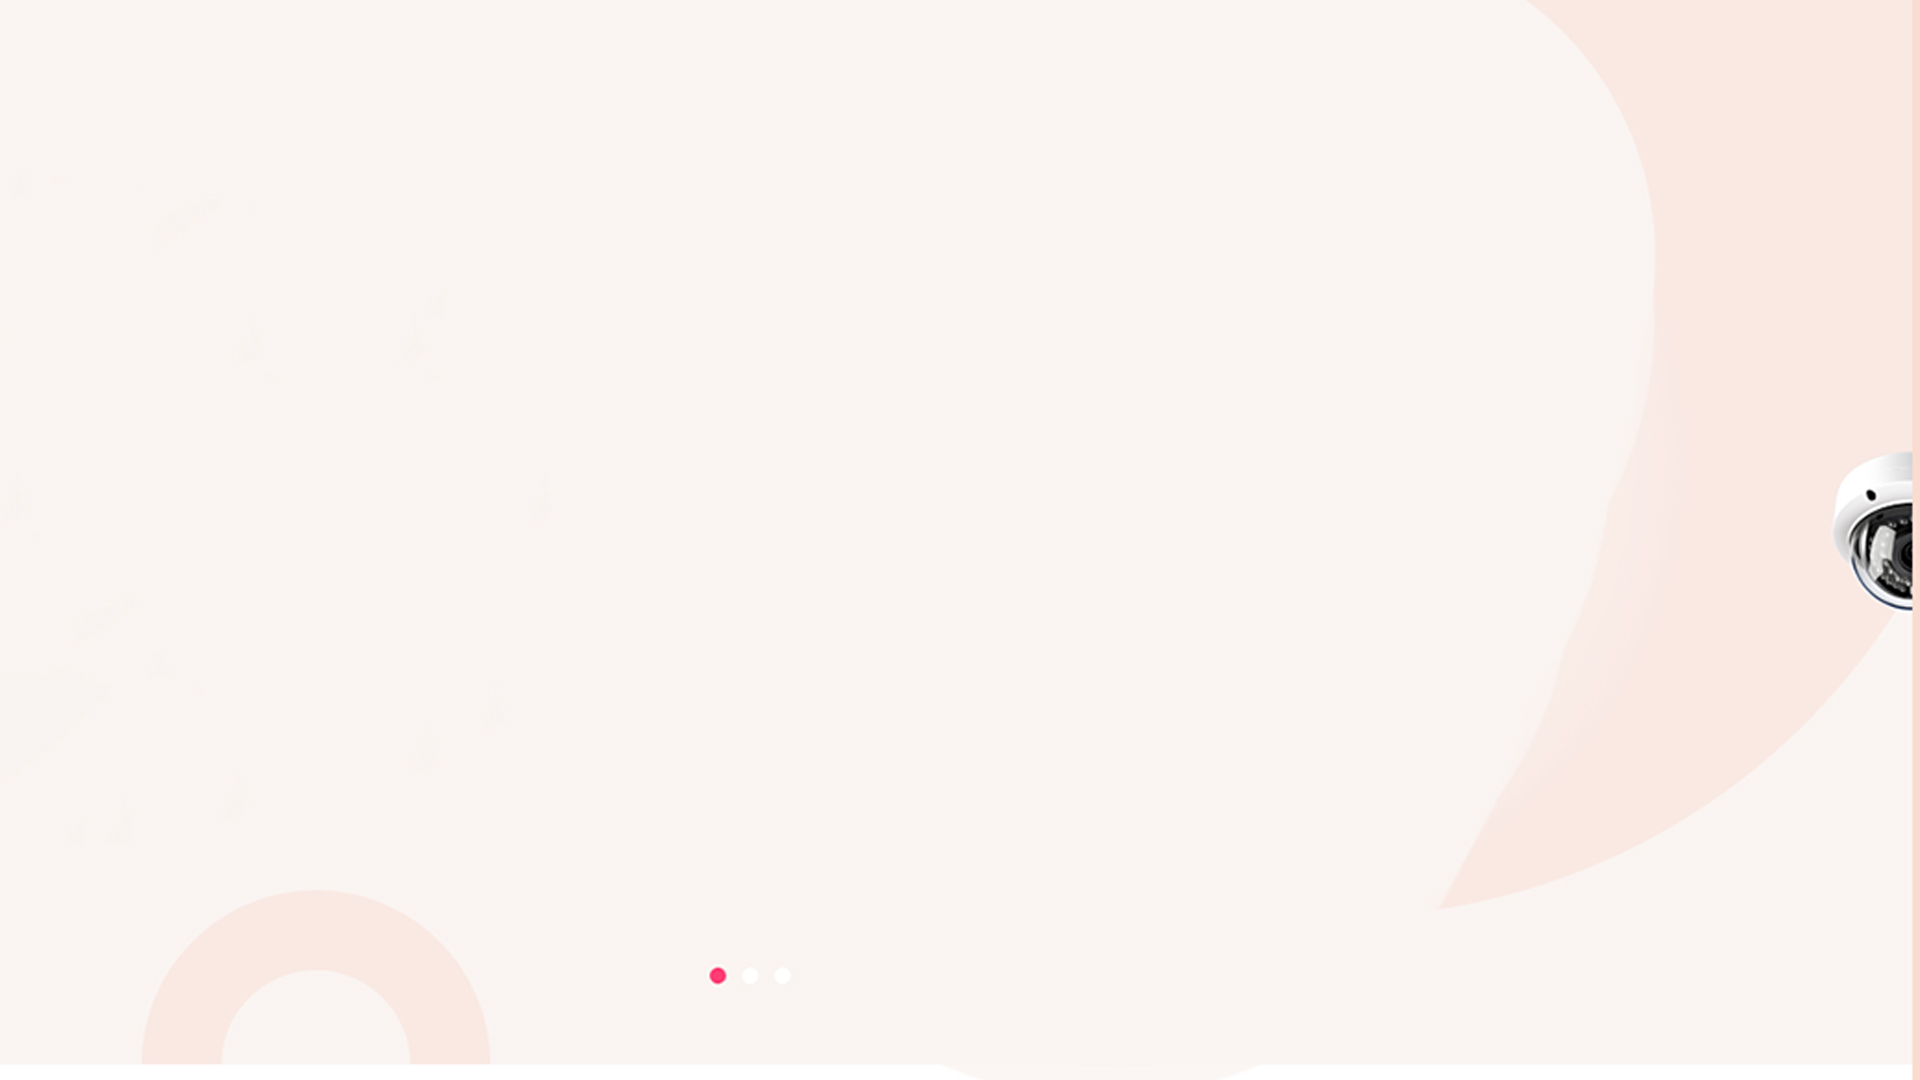
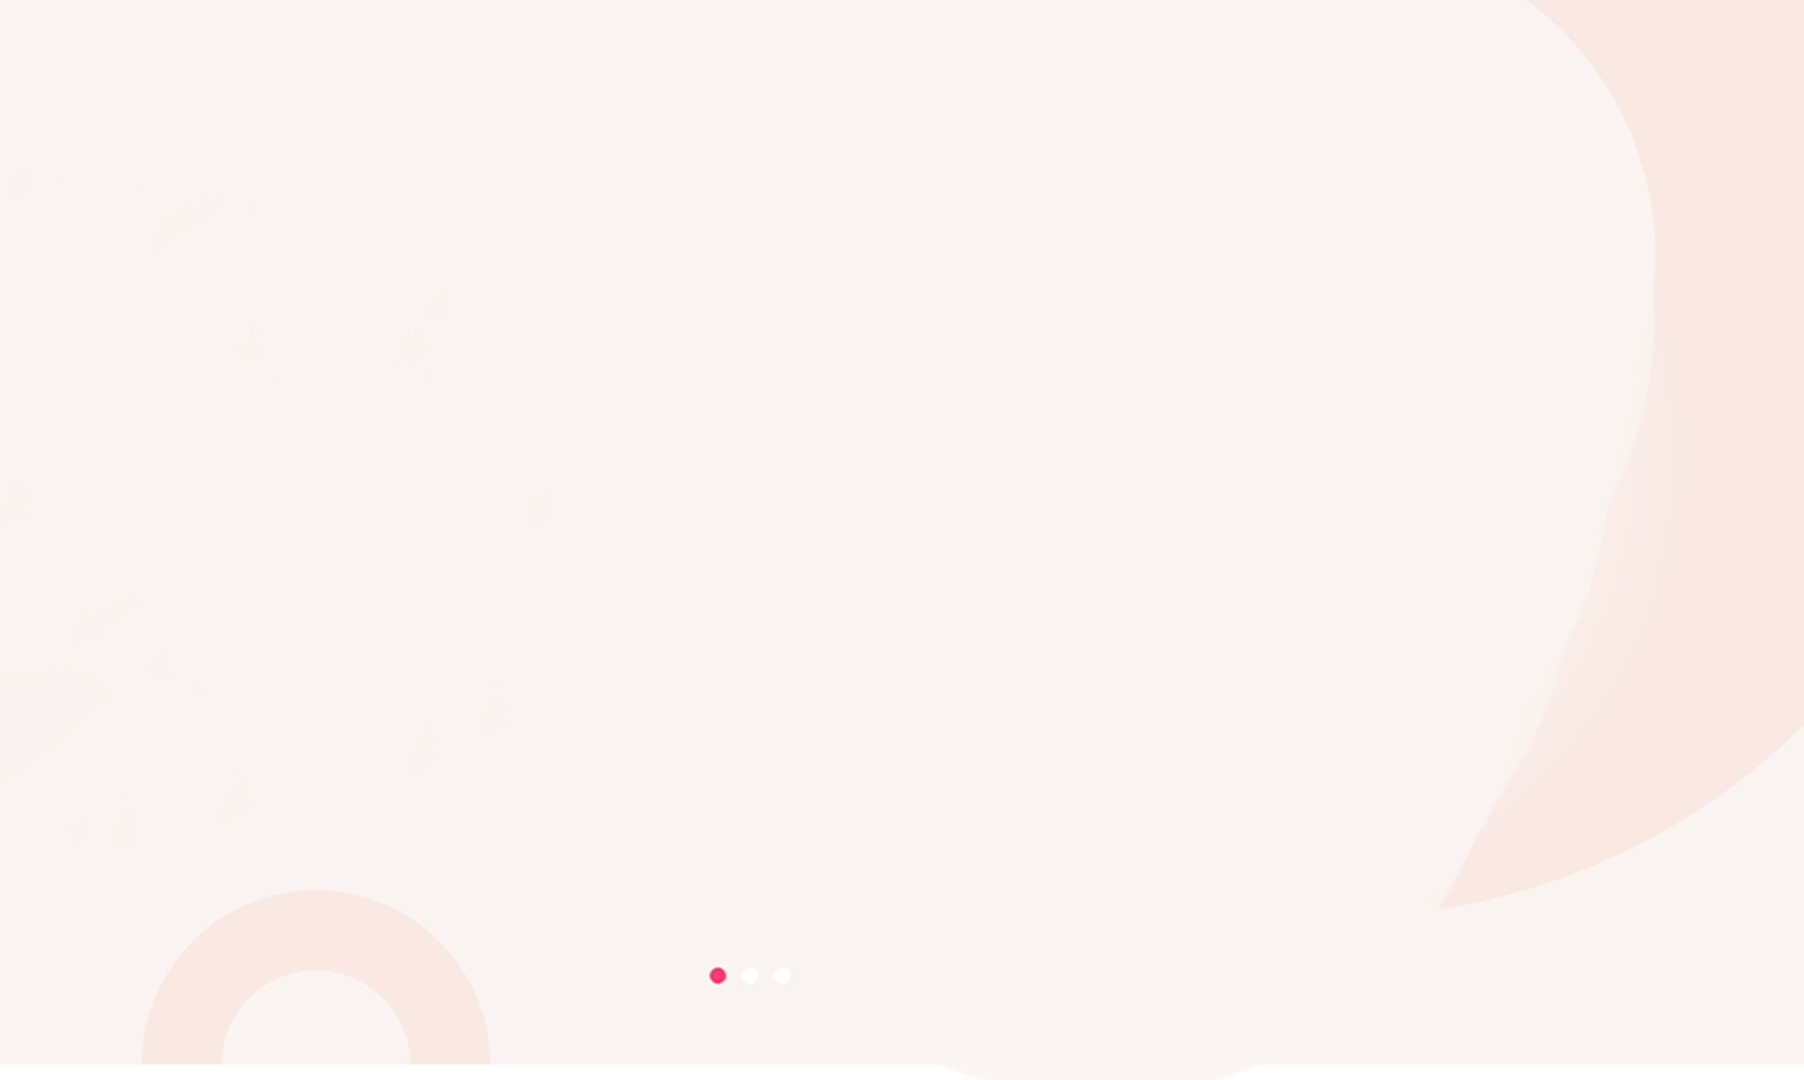
Frontend Images and UI

Changed region(s): [[0.9313, 0.3972, 1.0, 0.5806], [0.9933, 0.6722, 1.0, 1.0], [0.3725, 0.8861, 0.4035, 0.9167]]

diff --git a/src/components/Home/Banner/Banner.jsx b/src/components/Home/Banner/Banner.jsx
@@ -1,7 +1,7 @@
 import React from 'react'
 import "./Banner.css"
-import img1 from "../../../assets/black_headphones.png"
-import img2 from "../../../assets/blue_headphones.png"
+import img1 from "../../../assets/Images/still-life-medical-tools.png"
+import img2 from "../../../assets/Images/product-3.png"
 // src/assets/black_headphones.png
 
 import { Swiper, SwiperSlide } from 'swiper/react';
@@ -40,11 +40,10 @@ const Banner = () => {
                                     <h6 className="Main_Label pb-3"> 
                                         <i className="fa-solid fa-star"></i> Top Products Of The Month</h6>
                                     <h1>
-                                        Micropack MHP Headphone Black
+                                        Orthodontic Instruments
                                     </h1>
                                     <p className="py-3">
-                                        Lorem ipsum dolor sit amet consectetur, adipisicing elit. Accusamus possimus minima illo ipsum, itaque voluptate praesentium dolore quaerat! Cum, excepturi perspiciatis iure laudantium cumque illo assumenda magni beatae saepe numquam!
-                                    </p>
+                                    Precision. Performance. Perfection. Explore our premium range of Orthodontic Instruments, crafted for accuracy and durability. Elevate your dental practice with tools designed for seamless orthodontic treatments. Shop now for the best in class!                                    </p>
                                     <div className="banner_btns">
                                         <button className="main_btn">Shop Now</button>
                                      </div>
@@ -76,10 +75,10 @@ const Banner = () => {
                                     <h6 className="Main_Label pb-3"> 
                                         <i className="fa-solid fa-star"></i> Top Products Of The Month</h6>
                                     <h1>
-                                        Micropack MHP Headphone Black
+                                        Dental Chair
                                     </h1>
                                     <p className="py-3">
-                                        Lorem ipsum dolor sit amet consectetur, adipisicing elit. Accusamus possimus minima illo ipsum, itaque voluptate praesentium dolore quaerat! Cum, excepturi perspiciatis iure laudantium cumque illo assumenda magni beatae saepe numquam!
+                                    Experience Comfort & Innovation 🦷✨ Upgrade your dental practice with our ergonomically designed Dental Chair, built for precision, patient comfort, and seamless functionality. Enhance efficiency with advanced features tailored for modern dentistry.
                                     </p>
                                     <div className="banner_btns">
                                         <button className="main_btn">Shop Now</button>

diff --git a/src/components/Home/OrderMethod/OrderMethod.jsx b/src/components/Home/OrderMethod/OrderMethod.jsx
@@ -14,21 +14,21 @@ const OrderMethod = () => {
                     <div className="order_col1">
                         <img src={img1} alt="img-fluid" />
                         <h6 className="py-2">Free Shipping</h6>
-                        <p>Lorem ipsum dolor sit amet consectetur adipisicing elit. Beatae, culpa possimus pariatur eum voluptatem vel facere quod laudantium autem eos incidunt doloremque quia unde nemo soluta blanditiis non odit animi!</p>
+                        <p>Free Shipping on All Orders! Enjoy hassle-free shopping with zero shipping costs on your favorite dental products. Get the best quality delivered to your doorstep—fast, secure, and absolutely free!</p>
                     </div>
                 </div>
                 <div className="col-md-4">
                     <div className="order_col1">
                         <img src={img2} alt="img-fluid" />
-                        <h6 className="py-2">Free Shipping</h6>
-                        <p>Lorem ipsum dolor sit amet consectetur adipisicing elit. Beatae, culpa possimus pariatur eum voluptatem vel facere quod laudantium autem eos incidunt doloremque quia unde nemo soluta blanditiis non odit animi!</p>
+                        <h6 className="py-2">Flexible Payments</h6>
+                        <p>Flexible Payment Options! Shop with ease using our secure and convenient payment plans. Choose from multiple payment methods and enjoy a hassle-free checkout experience. Get the best dental products</p>
                     </div>
                 </div>
                 <div className="col-md-4">
                     <div className="order_col1">
                         <img src={img3} alt="img-fluid" />
-                        <h6 className="py-2">Free Shipping</h6>
-                        <p>Lorem ipsum dolor sit amet consectetur adipisicing elit. Beatae, culpa possimus pariatur eum voluptatem vel facere quod laudantium autem eos incidunt doloremque quia unde nemo soluta blanditiis non odit animi!</p>
+                        <h6 className="py-2">Customer Support</h6>
+                        <p>24/7 Customer Support! We're here for you! Whether you have questions, need assistance, or require expert guidance, our dedicated support team is just a call or message away. Your satisfaction is our priority</p>
                     </div>
                 </div>
             </div>

diff --git a/src/components/Home/Discount/Discount.jsx b/src/components/Home/Discount/Discount.jsx
@@ -1,5 +1,5 @@
 import React from 'react'
-import img from "../../../assets/mid_headphone.png"
+import img from "../../../assets/Images/lab-micro-motor-set.png"
 import "./Discount.css"
 
 const Discount = () => {
@@ -12,10 +12,10 @@ const Discount = () => {
               <h6 className="Main_Label pb-3">
                 <i className="fa-solid fa-star"></i> Top Products Of The Month</h6>
               <h2>
-                Micropack MHP Headphone Black
+                Lab Micro Motor Set
               </h2>
               <p className="py-3">
-                Lorem ipsum dolor sit amet consectetur, adipisicing elit. Accusamus possimus minima illo ipsum, itaque voluptate praesentium dolore quaerat! Cum, excepturi perspiciatis iure laudantium cumque illo assumenda magni beatae saepe numquam!
+              Power & Precision at Your Fingertips. Our Lab Micro Motor Set delivers high-speed performance, smooth control, and durability for all your dental and laboratory needs. Achieve precision in polishing, grinding, and cutting with ease. Shop now for seamless workflow!
               </p>
               <div className="banner_btns">
                 <button className="main_btn">Shop Now</button>
@@ -23,7 +23,7 @@ const Discount = () => {
             </div>
 
           </div>
-          <div className="col-md-6 pt-3">
+          <div className="col-md-6 pt-3 Discount_img">
             <img src={img} alt="" className="img-fluid"/>
           </div>
         </div>

diff --git a/src/components/Products/NewArrivals.jsx b/src/components/Products/NewArrivals.jsx
@@ -1,5 +1,5 @@
 import React from 'react'
-import iphone from "../../assets/iphones.png"
+import iphone from "../../assets/Images/new_arrival - Copy.jpg"
 import "./NewArrivals.css"
 import Arrivals from './Arrivals/Arrivals'
 
@@ -11,10 +11,10 @@ const NewArrivals = () => {
                 <div className="row align-items-center">
                     <div className="col-md-6">
                         <div className="NewArrival_col1">
-                            <h3>IPhone 15 Pro Max</h3>
-                            <div className="banner_btns pt-3 ">
+                            {/* <h3>IPhone 15 Pro Max</h3> */}
+                            {/* <div className="banner_btns pt-3 ">
                                 <button className="main_btn">Shop Now</button>
-                            </div>
+                            </div> */}
                             <img src={iphone} alt="" className='img-fluid'/>
                         </div>
                     </div>

diff --git a/src/components/Products/Arrivals/Arrivals.jsx b/src/components/Products/Arrivals/Arrivals.jsx
@@ -1,5 +1,5 @@
 import React from 'react'
-import img from "../../../assets/blue_headphones.png"
+import img from "../../../assets/Images/Airoter_Product_1.jpg"
 import "../NewArrivals.css"
 
 const Arrivals = () => {
@@ -13,8 +13,8 @@ const Arrivals = () => {
                 </div>
                 <div className="col-8">
                     <div className="Arrivals_col2 px-4">
-                    <p className="Product_name">HeadPhones</p>
-                    <div className="icons pb-2">
+                    <p className="Product_name">Airoter Premium</p>
+                    <div className="icons ">
                         <i className="fa-solid fa-star"></i>
                         <i className="fa-solid fa-star"></i>
                         <i className="fa-solid fa-star"></i>

diff --git a/src/components/Products/NewArrivals.css b/src/components/Products/NewArrivals.css
@@ -6,8 +6,15 @@
 }
 
 .NewArrival_col1{
-    background: var(--light-color);
-    padding: 2rem 2rem 1rem 2rem;
+    /* background: var(--light-color); */
+    border: var(--light-color);
+    padding: 2rem 2rem 1rem 6rem;
+    align-items: center;
+}
+
+.NewArrival_col1 img{
+    width: 80%;
+    border-radius: 10px;
 }
 
 .Arrivals_col1 img{

diff --git a/src/components/Home/Discount/Discount.css b/src/components/Home/Discount/Discount.css
@@ -25,6 +25,12 @@
     font-weight: 600;
 }
 
+.Discount_img {
+    /* width: 100%; */
+    height: 20rem;
+    border-radius: 10px;
+}
+
 @media only screen and (min-width: 320px) and (max-width:567px){
 
 .Discount_col1{

diff --git a/src/components/Products/Product/Product.css b/src/components/Products/Product/Product.css
@@ -54,7 +54,7 @@
   
   .icons {
     display: flex;
-    justify-content: center;
+    /* justify-content: center; */
     margin-bottom: 1rem;
   }
   
